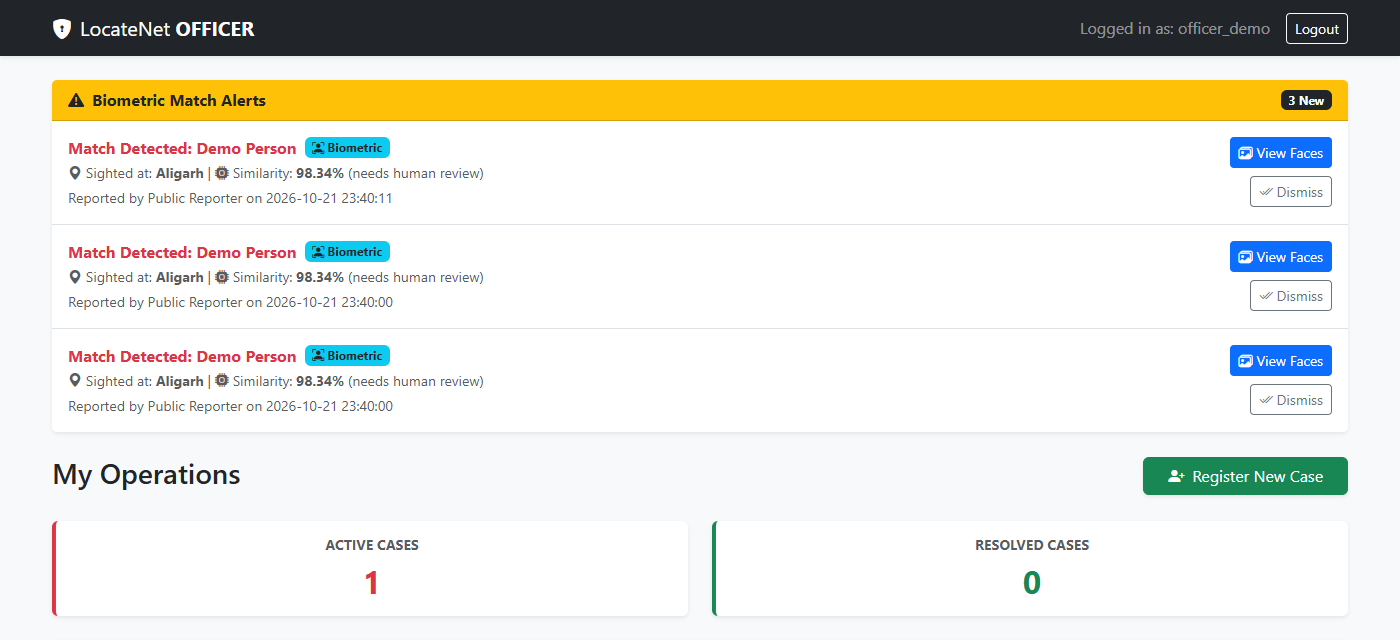
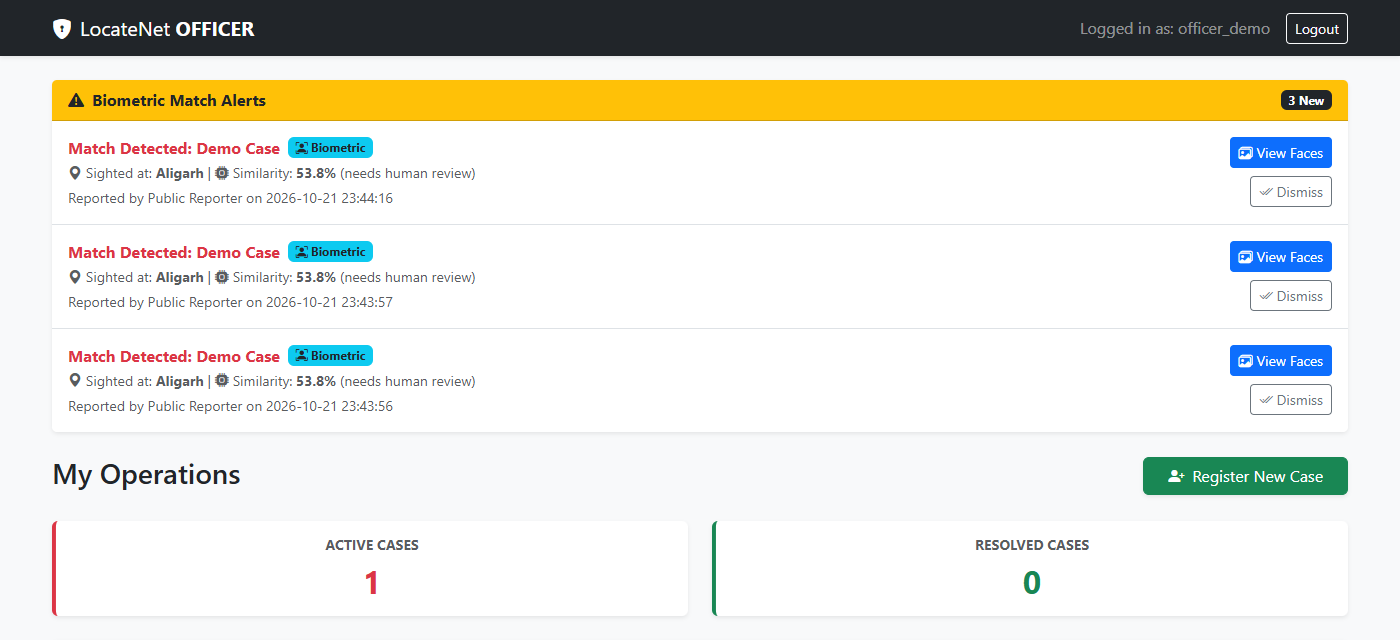
docs: refresh week 1 screenshots with demo photos and add review and registry views

Changed region(s): [[0.1843, 0.5312, 0.3379, 0.6562], [0.1843, 0.375, 0.3379, 0.4688], [0.1843, 0.2188, 0.3379, 0.2812]]

diff --git a/README.md b/README.md
@@ -152,7 +152,13 @@ Correctness, security and reproducibility pass. No new features and no UI redesi
 ### 4. Upload validation (type and size are checked, errors are friendly)
 <img src="app_snaps/week1_04_upload_validation.png" width="900">
 
-Screenshots use demo data only.
+### 5. Officer review screen: possible match (53.8% similarity) with Confirm / False Positive / Ignore
+<img src="app_snaps/week1_05_review_faces.png" width="900">
+
+### 6. Public registry: only missing cases, with name, city, date and photo
+<img src="app_snaps/week1_06_public_registry.png" width="900">
+
+Screenshots are from a demo run with two test photos.
 
 ## Installation
 
